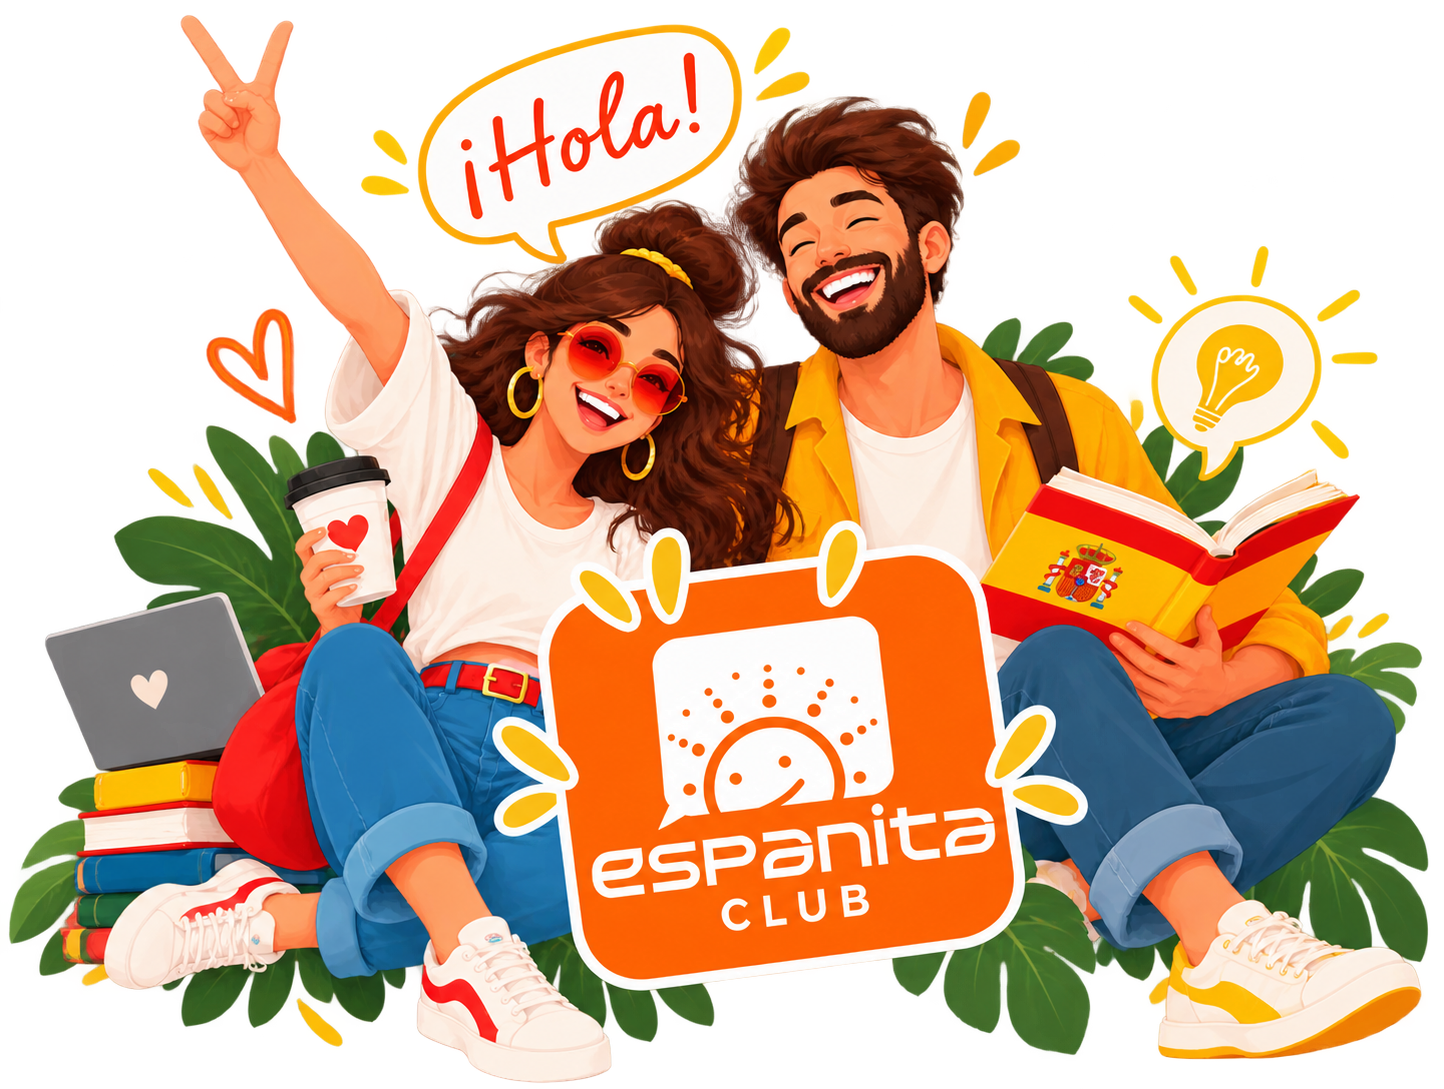
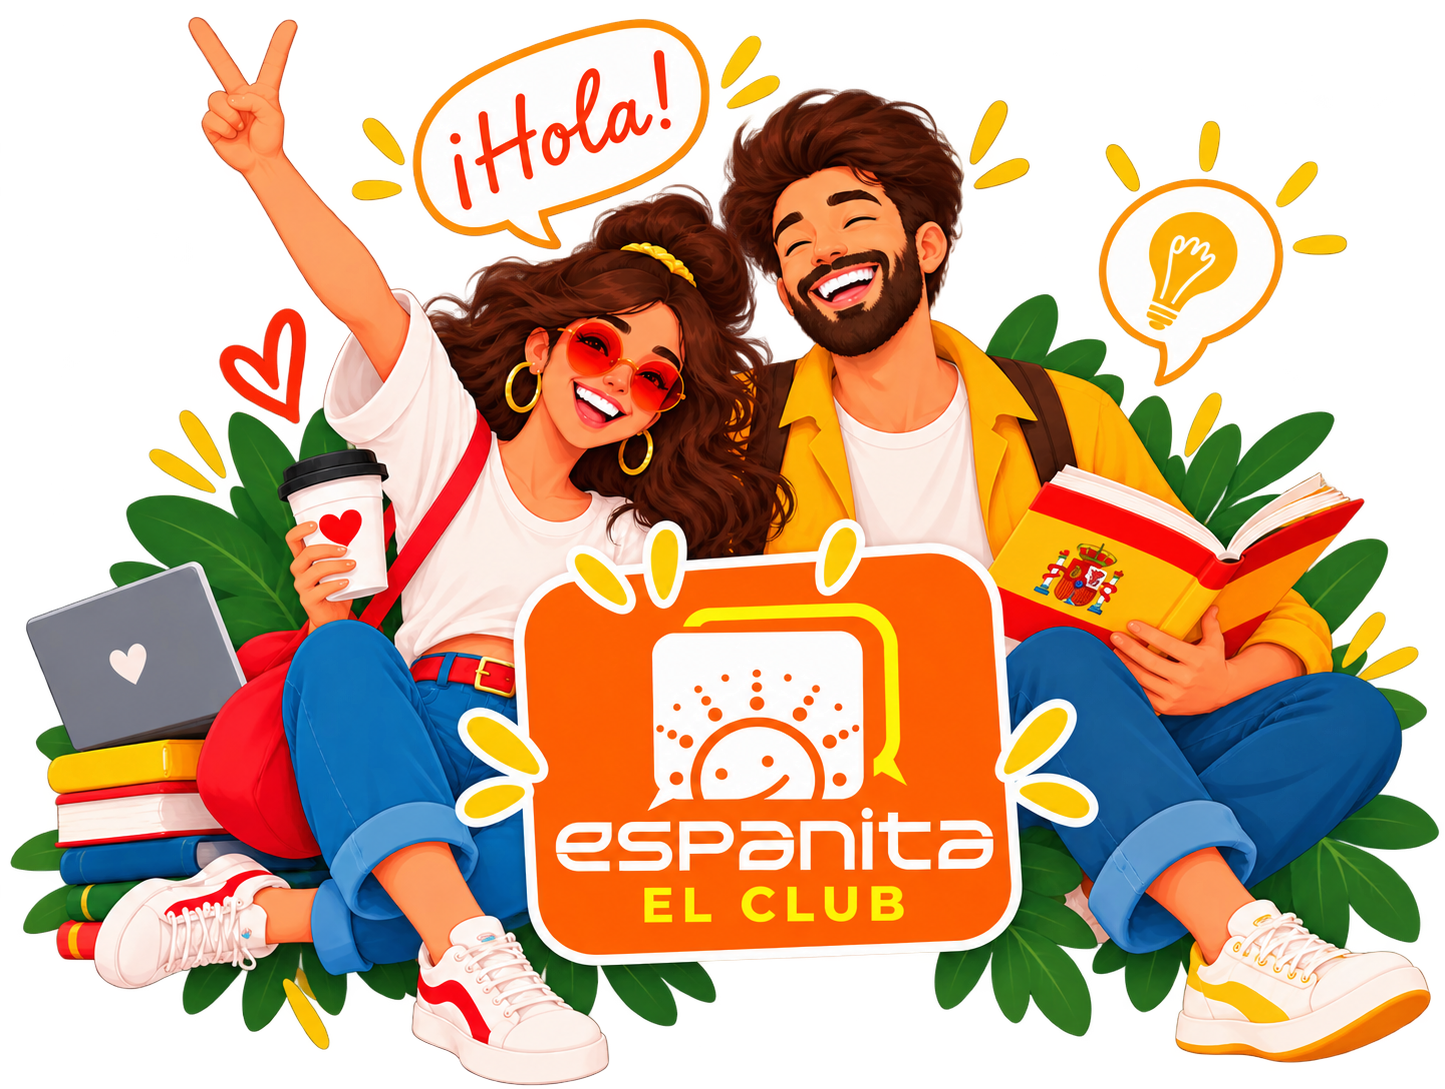
Add files via upload

diff --git a/index.html b/index.html
@@ -6,10 +6,10 @@
     <meta content="width=device-width,initial-scale=1" name="viewport" />
     <meta content="#fffaf7" name="theme-color" />
     <meta
-      content="Espanita Club — онлайн-клуб розмовної іспанської. Практика для рівнів A1–B2 за 9,99 € на місяць."
+      content="ESPANITA EL CLUB — онлайн-клуб розмовної іспанської. Практика для рівнів A1–B2 за 9,99 € на місяць."
       name="description"
     />
-    <title>Espanita Club — розмовна іспанська онлайн</title>
+    <title>ESPANITA EL CLUB — розмовна іспанська онлайн</title>
     <link href="https://fonts.googleapis.com" rel="preconnect" />
     <link crossorigin="" href="https://fonts.gstatic.com" rel="preconnect" />
     <link
@@ -22,11 +22,11 @@
   <body>
     <header class="site-header" id="top">
       <div class="container header-inner">
-        <a aria-label="Espanita Club — на початок" class="brand" href="#top">
+        <a aria-label="ESPANITA EL CLUB — на початок" class="brand" href="#top">
           <img
-            alt="Espanita Club"
+            alt="ESPANITA EL CLUB"
             height="58"
-            src="assets/logo.svg"
+            src="assets/logo.png"
             width="153"
           />
         </a>
@@ -63,16 +63,12 @@
         <a href="#about">Про клуб</a><a href="#levels">Рівні</a
         ><a href="#schedule">Розклад</a><a href="#reviews">Відгуки</a
         ><a href="#faq">FAQ</a>
-        <a
-          href="https://t.me/espanitakiev"
-          rel="noopener noreferrer"
-          target="_blank"
+        <a href="https://t.me/espanitakiev" target="_blank"
           >Написати менеджеру
         </a>
         <a
           class="btn subscription-link"
           href="https://tg.pulse.is/EspanitaUA_bot?start=6aafb8a3afc77f39000944fa&amp;source=target"
-          rel="noopener noreferrer"
           target="_blank"
           >Приєднатися до клубу
         </a>
@@ -83,7 +79,7 @@
         <div class="container hero-grid">
           <div class="hero-copy">
             <div class="eyebrow">
-              <span class="eyebrow-dot"></span> ESPANITA CLUB
+              <span class="eyebrow-dot"></span> ESPANITA EL CLUB
             </div>
             <p class="hero-kicker">Онлайн-клуб розмовної іспанської</p>
             <h1 id="hero-title">
@@ -102,15 +98,14 @@
                 використовуйте те, що вже знаєте.
               </p>
               <p>
-                Для тих, хто навчається індивідуально з викладачем, у будь-якій
-                школі або самостійно.
+                Для тих, хто навчається індивідуально або у групі з викладачем,
+                у будь-якій школі або самостійно.
               </p>
             </div>
             <div class="hero-cta" id="join">
               <a
                 class="btn btn-main blue subscription-link"
                 href="https://tg.pulse.is/EspanitaUA_bot?start=6aafb8a3afc77f39000944fa&amp;source=target"
-                rel="noopener noreferrer"
                 target="_blank"
                 >Приєднатися до клубу
               </a>
@@ -188,7 +183,9 @@
             >
               <div class="level-card-body">
                 <span class="level-card-index">01 / РОЗМОВНА ПРАКТИКА</span>
-                <h3>A1–A2 — розмовна практика з підтримкою викладача</h3>
+                <h3>
+                  A1<span>-</span>A2 — розмовна практика з підтримкою викладача
+                </h3>
                 <div aria-hidden="true" class="level-visual">
                   <svg
                     aria-hidden="true"
@@ -242,7 +239,6 @@
               <a
                 class="level-card-bottom"
                 href="https://tg.pulse.is/EspanitaUA_bot?start=6aafb8a3afc77f39000944fa&amp;source=target"
-                rel="noopener noreferrer"
                 target="_blank"
               >
                 <span>Говоріть впевненіше</span
@@ -269,7 +265,7 @@
             >
               <div class="level-card-body">
                 <span class="level-card-index">02 / ЖИВІ ДИСКУСІЇ</span>
-                <h3>B1–B2 — дискусії з носієм мови</h3>
+                <h3>B1<span>-</span>B2 — дискусії з носієм мови</h3>
                 <div aria-hidden="true" class="level-visual">
                   <svg
                     aria-hidden="true"
@@ -320,7 +316,6 @@
               <a
                 class="level-card-bottom"
                 href="https://tg.pulse.is/EspanitaUA_bot?start=6aafb8a3afc77f39000944fa&amp;source=target"
-                rel="noopener noreferrer"
                 target="_blank"
               >
                 <span>Спілкуйтесь вільно</span
@@ -421,7 +416,6 @@
               <a
                 class="level-card-bottom"
                 href="https://tg.pulse.is/EspanitaUA_bot?start=6aafb8a3afc77f39000944fa&amp;source=target"
-                rel="noopener noreferrer"
                 target="_blank"
               >
                 <span>Більше практики</span
@@ -507,7 +501,6 @@
                 class="schedule-club-link subscription-link"
                 href="https://tg.pulse.is/EspanitaUA_bot?start=6aafb8a3afc77f39000944fa&amp;source=target"
                 target="_blank"
-                rel="noopener noreferrer"
                 >Оформити підписку
               </a>
             </article>
@@ -557,16 +550,15 @@
                 class="schedule-club-link subscription-link"
                 href="https://tg.pulse.is/EspanitaUA_bot?start=6aafb8a3afc77f39000944fa&amp;source=target"
                 target="_blank"
-                rel="noopener noreferrer"
                 >Оформити підписку</a
               >
             </article>
           </div>
           <p class="schedule-disclaimer schedule-note" data-schedule-reveal>
-            Обирайте зустріч свого рівня та записуйтеся за наявності вільних
-            місць. Розклад може змінюватися; фіксована кількість зустрічей і
-            місце на конкретній зустрічі не гарантуються. Зустрічі проходять у
-            Zoom, записи не надаються.
+            Обирайте зустрічі свого рівня та записуйтеся на зручний час через
+            Telegram-бот. 💛 Розклад може оновлюватися, а кількість місць
+            обмежена, тому радимо записуватися завчасно. Зустрічі проходять у
+            Zoom у форматі живого спілкування, без запису.
           </p>
         </div>
         <div
@@ -585,7 +577,7 @@
             <span class="script">Palabras que inspiran</span>
             <h2 id="reviews-title">Відгуки <span>наших учасників</span></h2>
             <p class="reviews-intro">
-              Справжні слова після зустрічей Espanita Club — без зайвих
+              Справжні слова після зустрічей ESPANITA EL CLUB — без зайвих
               обіцянок, просто враження від спілкування.
             </p>
           </div>
@@ -593,7 +585,7 @@
             <img src="assets/footer-logo.png" alt="" />
           </div>
           <div
-            aria-label="Відгуки учасників Espanita Club"
+            aria-label="Відгуки учасників ESPANITA EL CLUB"
             aria-roledescription="карусель"
             class="reviews-carousel"
             data-review-reveal=""
@@ -743,7 +735,7 @@
           </div>
           <div class="join-copy" data-join-reveal="">
             <span class="join-script">Hola, amigos!</span>
-            <p class="join-overline">ESPANITA CLUB · РОЗМОВНА ПРАКТИКА</p>
+            <p class="join-overline">ESPANITA EL CLUB · РОЗМОВНА ПРАКТИКА</p>
             <h2 id="join-title">
               Більше живої іспанської <span>у вашому тижні</span> — за
               <strong>9,99 €/місяць</strong>
@@ -751,7 +743,6 @@
             <a
               class="btn join-button subscription-link"
               href="https://tg.pulse.is/EspanitaUA_bot?start=6aafb8a3afc77f39000944fa&amp;source=target"
-              rel="noopener noreferrer"
               target="_blank"
               >Приєднатися до клубу</a
             >
@@ -838,7 +829,8 @@
                   відкриває платіжний кабінет Stripe. Завершіть скасування до
                   наступного списання. Якщо потрібна допомога, зверніться до
                   адміністратора або напишіть на
-                  <a href="mailto:club@espanita.com.ua">club@espanita.com.ua</a
+                  <a href="mailto:club@espanita.com.ua" target="_blank"
+                    >club@espanita.com.ua</a
                   >.
                 </p>
               </div>
@@ -882,11 +874,10 @@
               </summary>
               <div class="faq-answer">
                 <p>
-                  Актуальний розклад доступний у Telegram-боті. Обирайте зустріч
-                  свого рівня та записуйтеся за наявності вільних місць. Розклад
-                  може змінюватися; фіксована кількість зустрічей і місце на
-                  конкретній зустрічі не гарантуються. Зустрічі проходять у
-                  Zoom, записи не надаються.
+                  Обирайте зустрічі свого рівня та записуйтеся на зручний час
+                  через Telegram-бот. 💛 Розклад може оновлюватися, а кількість
+                  місць обмежена, тому радимо записуватися завчасно. Зустрічі
+                  проходять у Zoom у форматі живого спілкування, без запису.
                 </p>
               </div>
             </details>
@@ -898,17 +889,17 @@
     <footer
       class="site-footer"
       id="contacts"
-      aria-label="Контакти Espanita Club"
+      aria-label="Контакти ESPANITA EL CLUB"
     >
       <div class="container footer-main">
         <div class="footer-identity">
           <a
             href="#top"
             class="footer-logo"
-            aria-label="Espanita Club — на початок"
+            aria-label="ESPANITA EL CLUB — на початок"
             ><img
               src="assets/footer-logo.png"
-              alt="Espanita Club"
+              alt="ESPANITA EL CLUB"
               width="186"
               height="82"
               loading="lazy"
@@ -920,7 +911,7 @@
               href="https://t.me/espanitakiev"
               target="_blank"
               rel="noopener noreferrer"
-              aria-label="Telegram — менеджер Espanita Club"
+              aria-label="Telegram — менеджер ESPANITA EL CLUB"
               title="Telegram — менеджер"
               ><svg viewBox="0 0 24 24" aria-hidden="true" fill="none">
                 <path
@@ -931,7 +922,6 @@
             <a
               href="https://tg.pulse.is/EspanitaUA_bot?start=6aafb8a3afc77f39000944fa&amp;source=target"
               target="_blank"
-              rel="noopener noreferrer"
               aria-label="Telegram — бот підписки"
               title="Telegram — бот підписки"
               ><svg
@@ -980,7 +970,6 @@
             class="footer-contact-btn footer-contact-btn--primary"
             href="https://tg.pulse.is/EspanitaUA_bot?start=6aafb8a3afc77f39000944fa&amp;source=target"
             target="_blank"
-            rel="noopener noreferrer"
             >Оформлення підписки</a
           >
           <a
@@ -1017,7 +1006,7 @@
       </div>
       <div class="footer-bottom">
         <div class="container footer-bottom-inner">
-          <span>© 2026 Espanita Club</span><span>Усі права захищено</span>
+          <span>© 2026 ESPANITA EL CLUB</span><span>Усі права захищено</span>
         </div>
       </div>
     </footer>

diff --git a/style.css b/style.css
@@ -1024,6 +1024,9 @@ h1 {
   margin: 0;
   min-height: 105px;
 }
+.level-card h3 span {
+  font-weight: 100;
+}
 .level-visual {
   height: 205px;
   position: relative;
